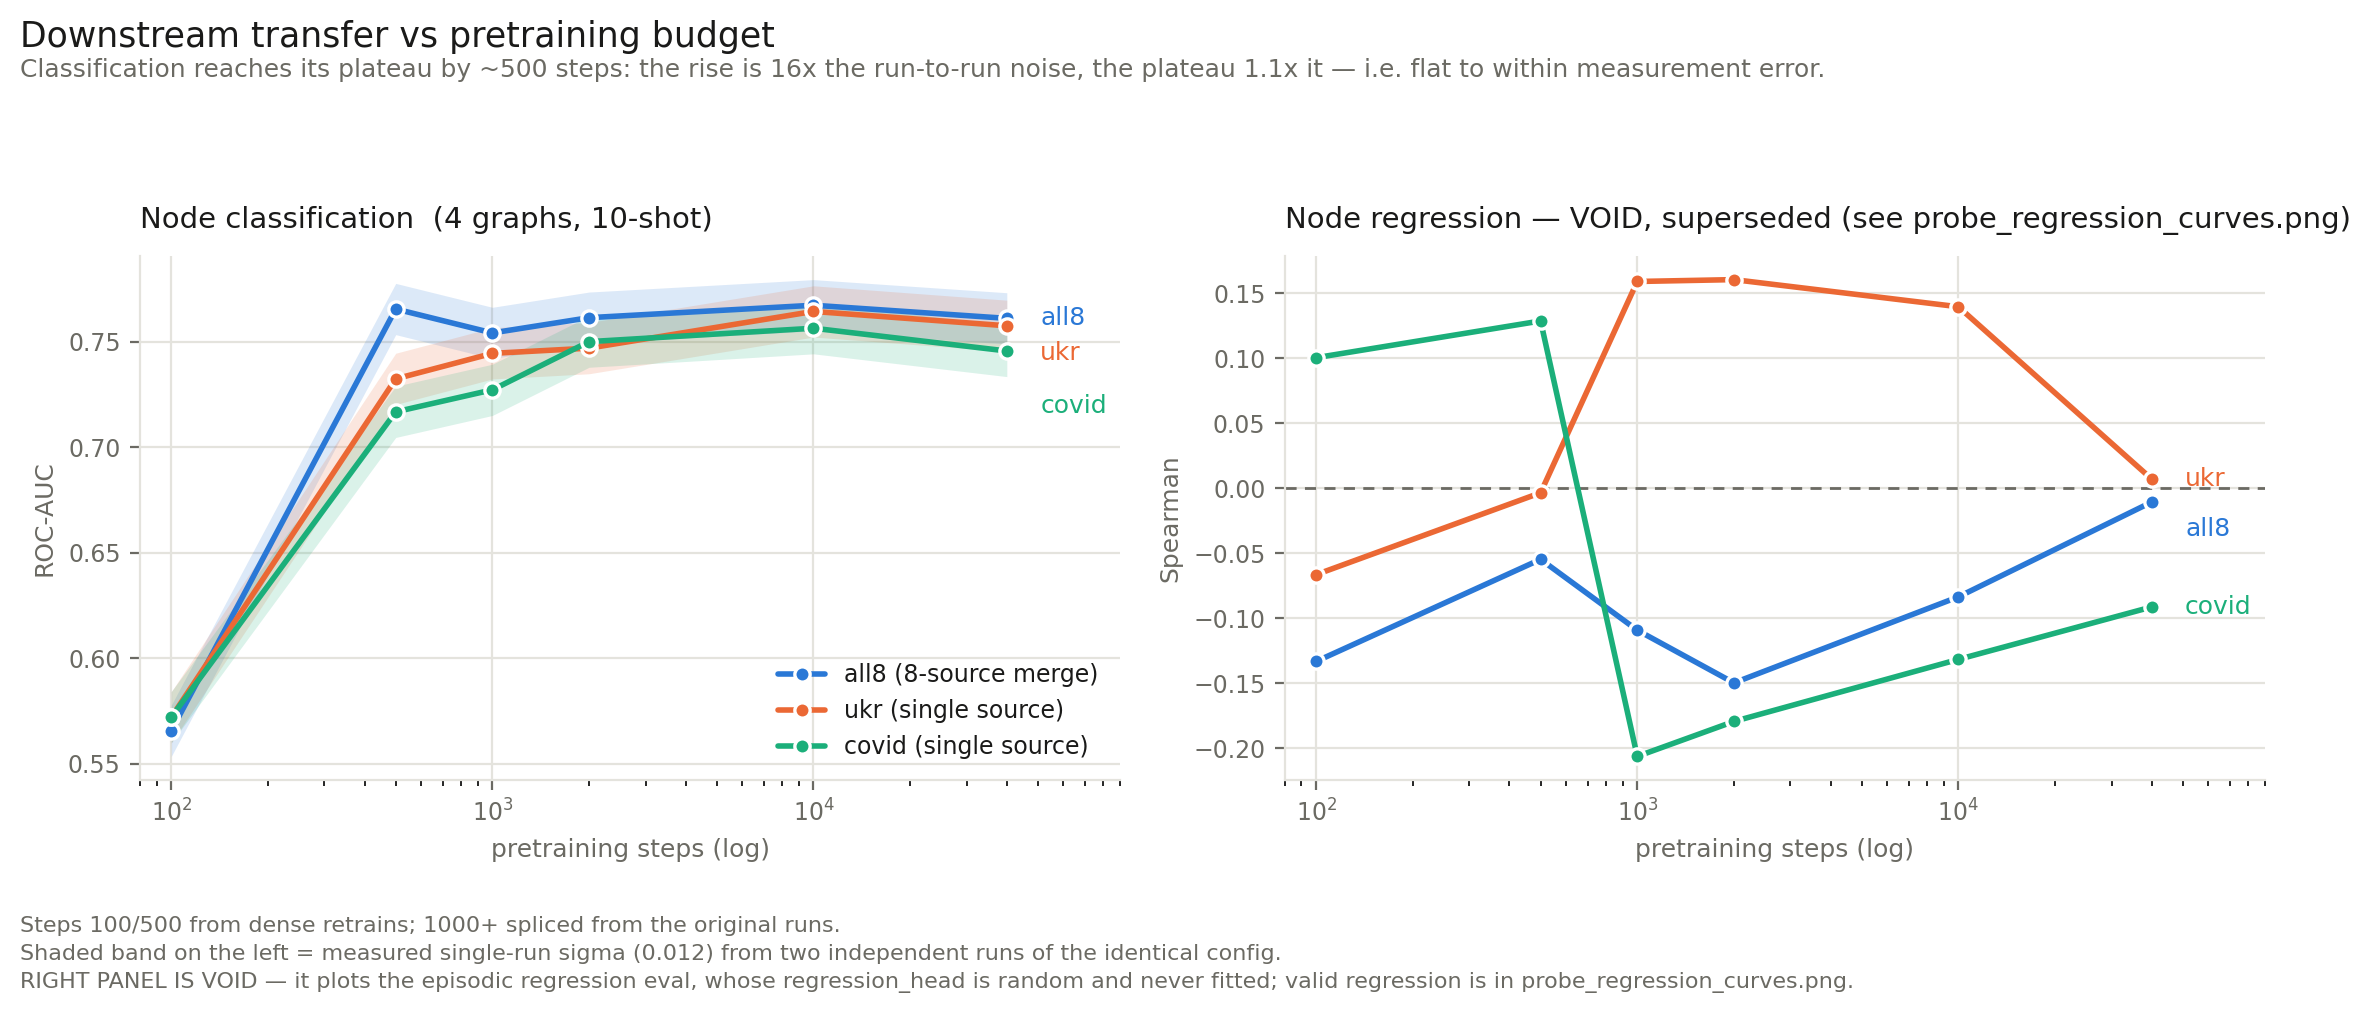
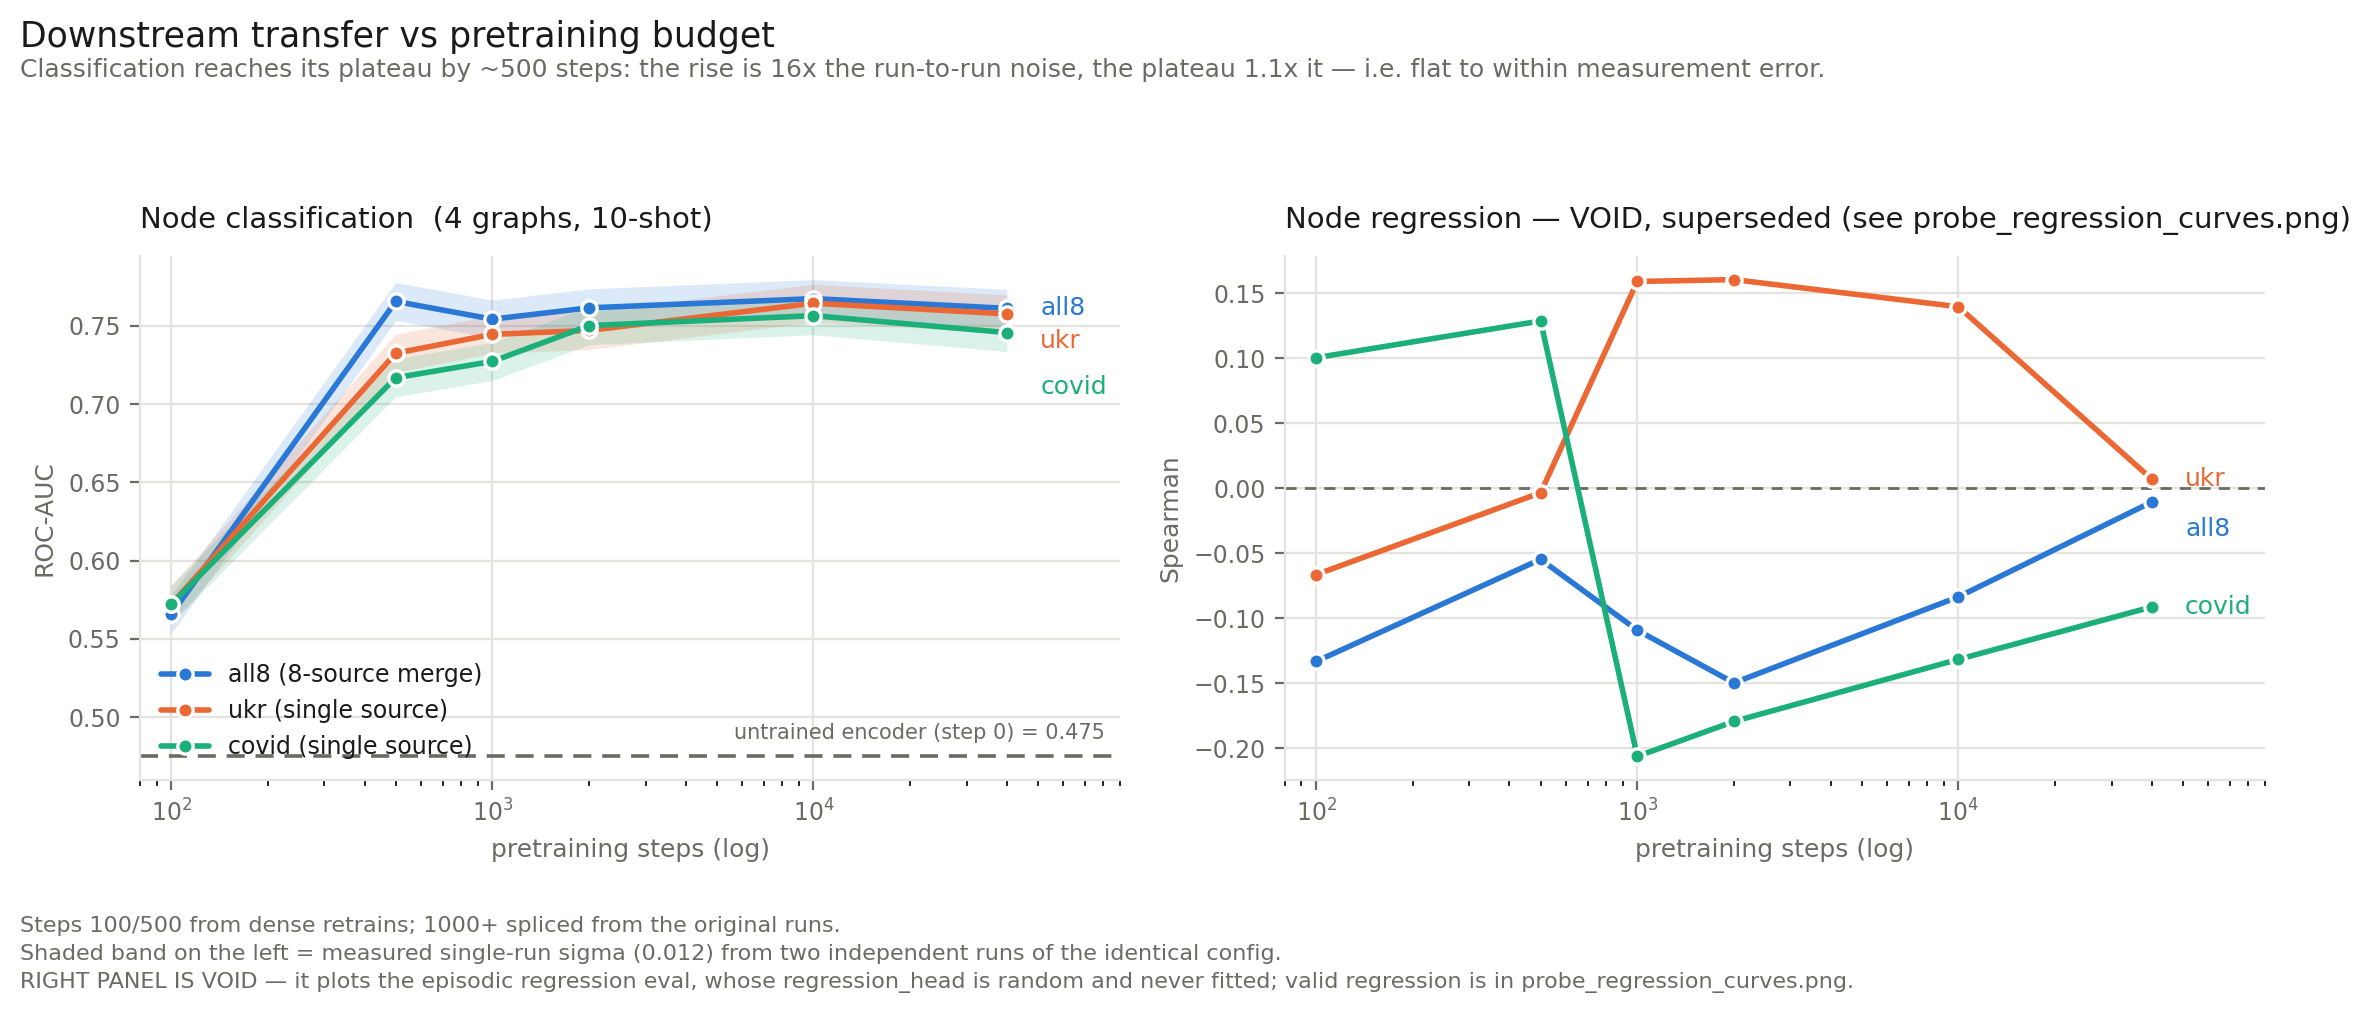
pretrain_saturation: add the step-0 (untrained) anchor and put it in the figures
Step 0 was never written -- the dense configs used
checkpoint_steps "100,500,1000,1001,2000,2001" after the random-init row was
declined. Produced now by running each dense config with --checkpoint_steps 0 and a
2-step budget, which is also the first real exercise of that flag from b75bae9.

ALL THREE ARMS SHARE ONE t=0, verified byte-identical (md5 61adf822... for all8, ukr
and covid). That had been assumed and never tested: the dataset is loaded before the
model is constructed (trainer.py:325 reads dataset.graph.x), so per-graph differences
in RNG consumption could have broken it. They do not. One step-0 row therefore serves
every arm, and the eval collapsed from 3 models to 1.

Free cross-check while at it: state_dict_0 reproduces the RANDOM_INIT sentinel to the
digit on both graphs where both were run (covid_political 0.4291, election2020
0.4027), so the sentinel is a faithful stand-in and data/random_init_floor.csv stands.

The anchor sharpens two classification claims. ukr_rus_suspended goes 0.5186 -> 0.516:
not a plateau at chance but a graph the encoder never moves at all. twibot20 peaks at
step 100 only +0.12 over untrained and decays from there. The two large effects are
unchanged (+0.58, +0.50).

It also restates the regression target split far more cleanly than the rank
correlations did. On all 8 cells: account_age_days 4/4 end ABOVE step 0 (0.017-0.052
-> 0.05-0.115) while followers_count 4/4 sit AT or BELOW it (midterm 0.2018 vs a best
[…]

Changed region(s): [[0.0312, 0.2754, 0.4682, 0.7651], [0.0312, 0.4284, 0.0624, 0.4896], [0.0312, 0.306, 0.0624, 0.3366]]

diff --git a/scripts/experiments/analysis/pretrain_saturation/build_probe_figures.py b/scripts/experiments/analysis/pretrain_saturation/build_probe_figures.py
@@ -54,13 +54,31 @@ def load():
     return enc, floors
 
 
+def _steplab(v: int) -> str:
+    """Compact step tick: 0 / 100 / 500 / 1k / 2k / 10k / 40k. Seven columns of
+    comma-grouped numbers collide at this panel width."""
+    v = int(v)
+    return str(v) if v < 1000 else f"{v // 1000}k"
+
+
 def luminance(rgba):
     r, g, b = rgba[:3]
     f = lambda c: c / 12.92 if c <= 0.04045 else ((c + 0.055) / 1.055) ** 2.4
     return 0.2126 * f(r) + 0.7152 * f(g) + 0.0722 * f(b)
 
 
+def step0_levels():
+    """Per-(dataset,target) step-0 Spearman; one shared untrained encoder."""
+    f = HERE / "data" / "step0_anchor.csv"
+    if not f.is_file():
+        return {}
+    d = pd.read_csv(f)
+    d = d[d.task == "regression"]
+    return {(r.dataset, r.target): r.value for r in d.itertuples()}
+
+
 def curves(enc, floors):
+    s0 = step0_levels()
     cells = sorted(enc.cell.unique())
     fig, axes = plt.subplots(2, 4, figsize=(16, 6.8), constrained_layout=True)
     for ax, cell in zip(axes.ravel(), cells):
@@ -72,6 +90,12 @@ def curves(enc, floors):
             ax.annotate(f"raw-feature floor {floor:.3f}", (1.0, floor), xycoords=("axes fraction", "data"),
                         xytext=(-2, 4), textcoords="offset points", ha="right", va="bottom",
                         fontsize=7.5, color=INK_MUTED)
+        lv = s0.get((ds, tgt))
+        if lv is not None:
+            ax.axhline(lv, color="#8a3ffc", linewidth=1.3, linestyle=(0, (2, 2)), zorder=1)
+            ax.annotate(f"step 0 = {lv:.3f}", (0.985, lv), xycoords=("axes fraction", "data"),
+                        xytext=(0, -4), textcoords="offset points", fontsize=7.5,
+                        color="#8a3ffc", va="top", ha="right")
         for arm in ARM_ORDER:
             s = sub[sub.arm == arm].groupby("step")["spearman"].mean().sort_index()
             ax.plot(s.index, s.values, color=ARM_COLOR[arm], linewidth=2, marker="o",
@@ -93,13 +117,15 @@ def curves(enc, floors):
     handles, labels = axes.ravel()[0].get_legend_handles_labels()
     fig.legend(handles, labels, frameon=False, fontsize=8.5, labelcolor=INK,
                loc="upper left", bbox_to_anchor=(0.004, 0.975), ncol=3)
-    fig.suptitle("Regression, re-scored with a fitted probe — the effect of pretraining flips by target",
+    fig.suptitle("Regression probe vs an UNTRAINED encoder — pretraining adds account_age, destroys followers",
                  fontsize=13, color=INK, x=0.004, ha="left", y=1.06)
     fig.text(0.004, -0.02,
-             "Frozen encoder, ridge fitted on the support set, held-out queries; 500 shared "
-             "episodes per cell. Dashed line = ridge on raw features. account_age_days RISES "
-             "with steps (12/12 series positive, +179%, saturating ~10k); followers_count is "
-             "flat-to-declining (-13%), its best encoder the least-trained one.",
+             "Frozen encoder, ridge on the support set, held-out queries; 500 shared episodes "
+             "per cell. Grey dashed = ridge on raw features. Purple dashed = the step-0 "
+             "untrained encoder (one t=0, byte-identical across arms).\n"
+             "Every account_age_days panel ends ABOVE step 0; every followers_count panel sits "
+             "AT or BELOW it — so pretraining builds the target the features do not encode and "
+             "erodes the one they do.",
              fontsize=8, color=INK_MUTED, ha="left")
     out = HERE / "figures" / "probe_regression_curves.png"
     fig.savefig(out, dpi=200, bbox_inches="tight", facecolor="white")
@@ -108,14 +134,22 @@ def curves(enc, floors):
 
 def heatmap(enc):
     cells = sorted(enc.cell.unique())
+    s0 = step0_levels()
     norm = Normalize(vmin=0.0, vmax=0.42)
     fig, axes = plt.subplots(1, 3, figsize=(15.5, 4.4), constrained_layout=True)
     for ax, arm in zip(axes, ARM_ORDER):
         mat = (enc[enc.arm == arm]
                .pivot_table(index="cell", columns="step", values="spearman").reindex(cells))
+        if s0:
+            # Step 0 is one shared untrained encoder, so the column is identical in all
+            # three panels by construction -- that is the point, it is the common origin.
+            col = {c: s0.get(tuple(c.split(" · ")[0:1] + [t_])) for c, t_ in
+                   ((c, ("account_age_days" if "account_age" in c else "followers_count"))
+                    for c in cells)}
+            mat.insert(0, 0, pd.Series(col))
         im = ax.imshow(mat.values, cmap=SEQ, norm=norm, aspect="auto")
         ax.set_xticks(range(len(mat.columns)))
-        ax.set_xticklabels([f"{c:,}" for c in mat.columns], fontsize=8.5, color=INK_MUTED)
+        ax.set_xticklabels([_steplab(c) for c in mat.columns], fontsize=8.5, color=INK_MUTED)
         ax.set_yticks(range(len(mat.index)))
         ax.set_yticklabels(mat.index, fontsize=8.5, color=INK_MUTED)
         ax.set_title(ARM_LABEL[arm], fontsize=10, color=INK, loc="left", pad=8)
@@ -138,7 +172,7 @@ def heatmap(enc):
     cb.set_label("Spearman (probe)", fontsize=8.5, color=INK_MUTED)
     cb.ax.tick_params(labelsize=8, colors=INK_MUTED)
     cb.outline.set_visible(False)
-    fig.suptitle("Regression probe by cell — account_age rises with steps, followers does not",
+    fig.suptitle("Regression probe by cell — step 0 included; account_age rises above it, followers does not",
                  fontsize=12.5, color=INK, x=0.004, ha="left")
     out = HERE / "figures" / "probe_regression_heatmap.png"
     fig.savefig(out, dpi=200, bbox_inches="tight", facecolor="white")

diff --git a/scripts/experiments/analysis/pretrain_saturation/build_tables_and_figure.py b/scripts/experiments/analysis/pretrain_saturation/build_tables_and_figure.py
@@ -85,6 +85,15 @@ def classification_sigma() -> float | None:
     return float(diffs.std(ddof=1) / (2 ** 0.5))
 
 
+def step0_anchor() -> pd.DataFrame | None:
+    """Step-0 (untrained) values per cell. All three arms share ONE t=0 encoder --
+    verified byte-identical across arms -- so this is a single reference level per cell,
+    not a per-arm curve point. It also cannot be drawn ON a log x-axis (log(0)), which is
+    the other reason it is a horizontal line rather than a leftmost marker."""
+    f = HERE / "data" / "step0_anchor.csv"
+    return pd.read_csv(f) if f.is_file() else None
+
+
 def main() -> int:
     frames = [load(csv, metric, task) for task, csv, metric, _, _ in TASKS]
     long = pd.concat(frames, ignore_index=True).sort_values(
@@ -100,6 +109,7 @@ def main() -> int:
     # the paired-difference sigma over sqrt(2); a band drawn at +/-sigma is therefore what
     # a single curve is worth, not the gap between two of them.
     band = classification_sigma()
+    step0 = step0_anchor()
 
     (HERE / "data").mkdir(exist_ok=True)
     (HERE / "figures").mkdir(exist_ok=True)
@@ -139,6 +149,17 @@ def main() -> int:
         for side in ("left", "bottom"):
             ax.spines[side].set_color(GRID)
         ax.tick_params(colors=INK_MUTED, labelsize=8.5)
+        # CLASSIFICATION ONLY. The step-0 regression anchor is a PROBE Spearman; the
+        # right panel plots the void episodic Spearman. Drawing one on the other would
+        # put two different measurements on one axis. The probe's own step-0 line lives
+        # in probe_regression_curves.png, where it belongs.
+        if step0 is not None and task == "classification":
+            lvl = step0[step0.task == task]["value"].mean()
+            ax.axhline(lvl, color=INK_MUTED, linewidth=1.3, linestyle=(0, (5, 3)), zorder=1)
+            ax.annotate(f"untrained encoder (step 0) = {lvl:.3f}", (0.985, lvl),
+                        xycoords=("axes fraction", "data"), xytext=(0, 5),
+                        textcoords="offset points", fontsize=7.5, color=INK_MUTED,
+                        va="bottom", ha="right")
         ax.set_xlim(80, 90000)   # headroom for the direct labels
         if task == "regression":
             ax.axhline(0, color=INK_MUTED, linewidth=1, linestyle=(0, (4, 3)), zorder=1)
@@ -162,7 +183,8 @@ def main() -> int:
                         fontsize=9, va="center", ha="left", zorder=4,
                         annotation_clip=False)
 
-    axes[0].legend(frameon=False, fontsize=8.5, loc="lower right", labelcolor=INK)
+    # lower LEFT: the step-0 reference label now occupies the lower right.
+    axes[0].legend(frameon=False, fontsize=8.5, loc="lower left", labelcolor=INK)
     # Title states only what both panels support. Classification saturates by ~500 steps;
     # regression does not saturate at anything, it never leaves the noise around zero, so
     # a single "saturation is early" headline would misdescribe the right-hand panel.

diff --git a/scripts/experiments/analysis/pretrain_saturation/FINDINGS.md b/scripts/experiments/analysis/pretrain_saturation/FINDINGS.md
@@ -79,9 +79,25 @@ three:
   classification alone it is suggestive, not solid. It does reproduce independently on the
   regression probe (§4b), which is what keeps it interesting.
 
-Against a random-init encoder these two are unambiguous: covid_political 0.429 and
-election2020 0.403 untrained (both *below* chance), versus 0.932 and 0.987 pretrained —
-gaps of +0.50 and +0.58. Whatever else is uncertain here, this effect is real.
+**Against the step-0 encoder** (`data/step0_anchor.csv`, a genuine `state_dict_0` rather
+than the `RANDOM_INIT` sentinel — the two agree to the digit on the graphs where both were
+run, so the sentinel is a faithful stand-in):
+
+| graph | step 0 | best trained | Δ |
+|---|---|---|---|
+| election2020 | 0.4027 | 0.987 | **+0.58** |
+| covid_political | 0.4291 | 0.932 | **+0.50** |
+| twibot20 | 0.5494 | 0.668 (at step 100) | +0.12, then decays to 0.626 |
+| ukr_rus_suspended | 0.5186 | 0.516 | **−0.00 — never leaves its starting value** |
+
+The step-0 anchor sharpens two of these. `ukr_rus_suspended` is not a plateau at chance,
+it is a graph the encoder never moves *at all*. And `twibot20`'s peak is at step 100, only
++0.12 over untrained, decaying thereafter. The two large effects are real and unambiguous.
+
+**All three arms share ONE t=0 encoder — verified byte-identical** (md5 `61adf822…` for
+`all8`, `ukr` and `covid`). Dataset loading happens before model construction, so this was
+not guaranteed; it is now measured, and it is why step 0 is drawn as a single reference
+level rather than three curve points.
 
 **But it is a FEATURE effect, not a topology effect** (`data/feature_ablation.csv`):
 
@@ -203,6 +219,20 @@ So **`account_age_days` does saturate**, rising monotonically to a plateau aroun
 10 000 — later than classification's step 500, and consistently across every arm and
 dataset. **`followers_count` does not rise at all**; its best encoder is usually the
 least-trained one.
+
+**The step-0 anchor states this far more cleanly than the rank correlations do.** Against
+a genuinely untrained encoder, on all 8 cells:
+
+| target | step 0 | trained encoders | verdict |
+|---|---|---|---|
+| `account_age_days` | 0.017 – 0.052 | reach 0.05 – 0.115 | **4/4 cells end ABOVE step 0** |
+| `followers_count` | 0.117 – 0.390 | 0.10 – 0.41 | **4/4 cells sit AT or BELOW step 0** |
+
+e.g. midterm/followers: step 0 = 0.2018 and the best trained encoder manages 0.2000;
+ukr/followers: 0.1628 vs 0.1612. So pretraining **builds** the target the node features do
+not encode and **erodes** the one they do — which is the same asymmetry §4b inferred from
+the floors, now stated against an untrained baseline instead of a rank correlation on a
+small base.
 
 Note which target is which. `followers_count` carries the **high** raw-feature floors
 (0.119–0.260) and `account_age_days` the near-zero ones (0.010–0.040). The pattern is

diff --git a/scripts/experiments/analysis/pretrain_saturation/README.md b/scripts/experiments/analysis/pretrain_saturation/README.md
@@ -78,6 +78,10 @@ Built by [`build_tables_and_figure.py`](build_tables_and_figure.py) (Homebrew Py
   `regression_head` is random and never fitted) and are titled as such; they are kept only
   as evidence of that noise. Valid regression numbers are here.
 - `data/reg_probe/*.csv` — 152 rows, fitted frozen-encoder ridge probe + raw-feature floor.
+- `data/step0_anchor.csv` — the untrained (`state_dict_0`) encoder on all 12 cells. All
+  three arms share ONE t=0 (byte-identical, md5 `61adf822…`), so it is a single reference
+  level, and it cannot sit on a log x-axis — hence a horizontal line in the curve figures
+  and a real `0` column in the heatmaps.
 - [`FINDINGS.md`](FINDINGS.md).
 
 ## Result in one line
